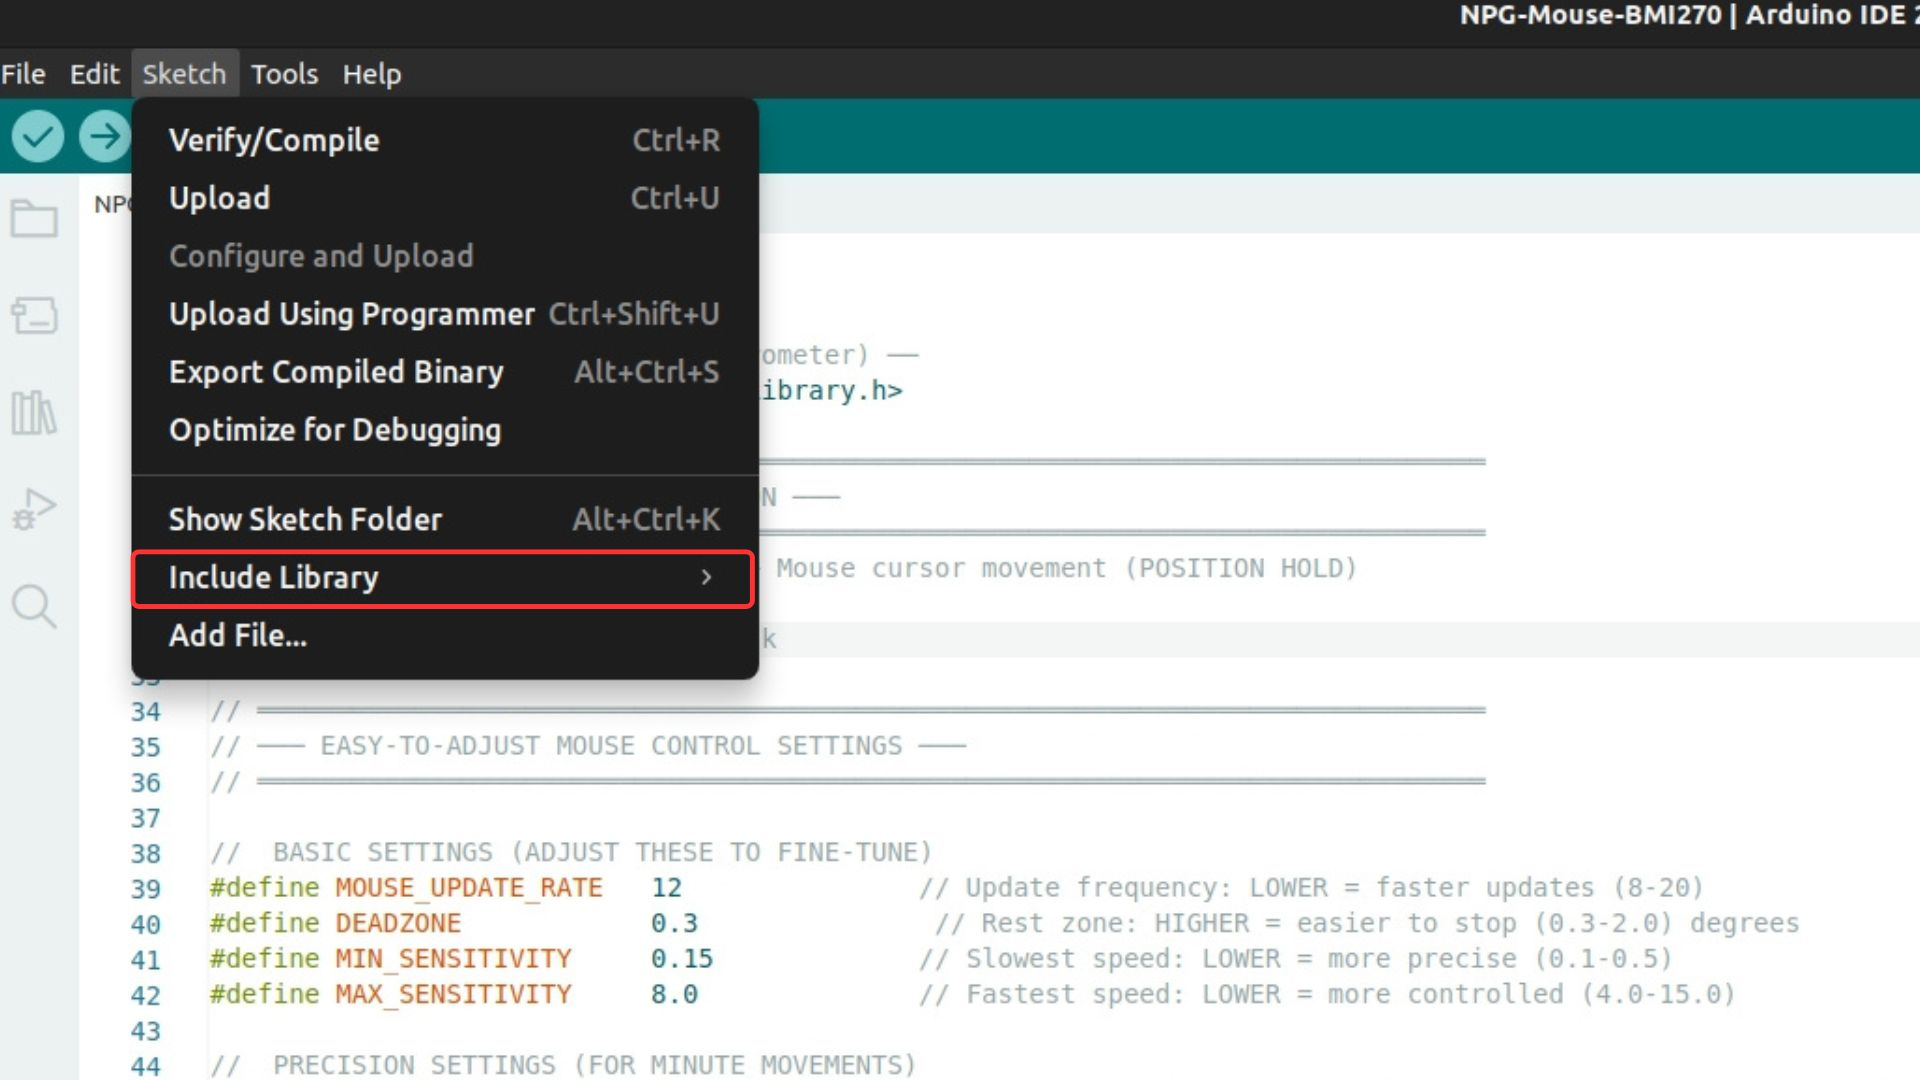
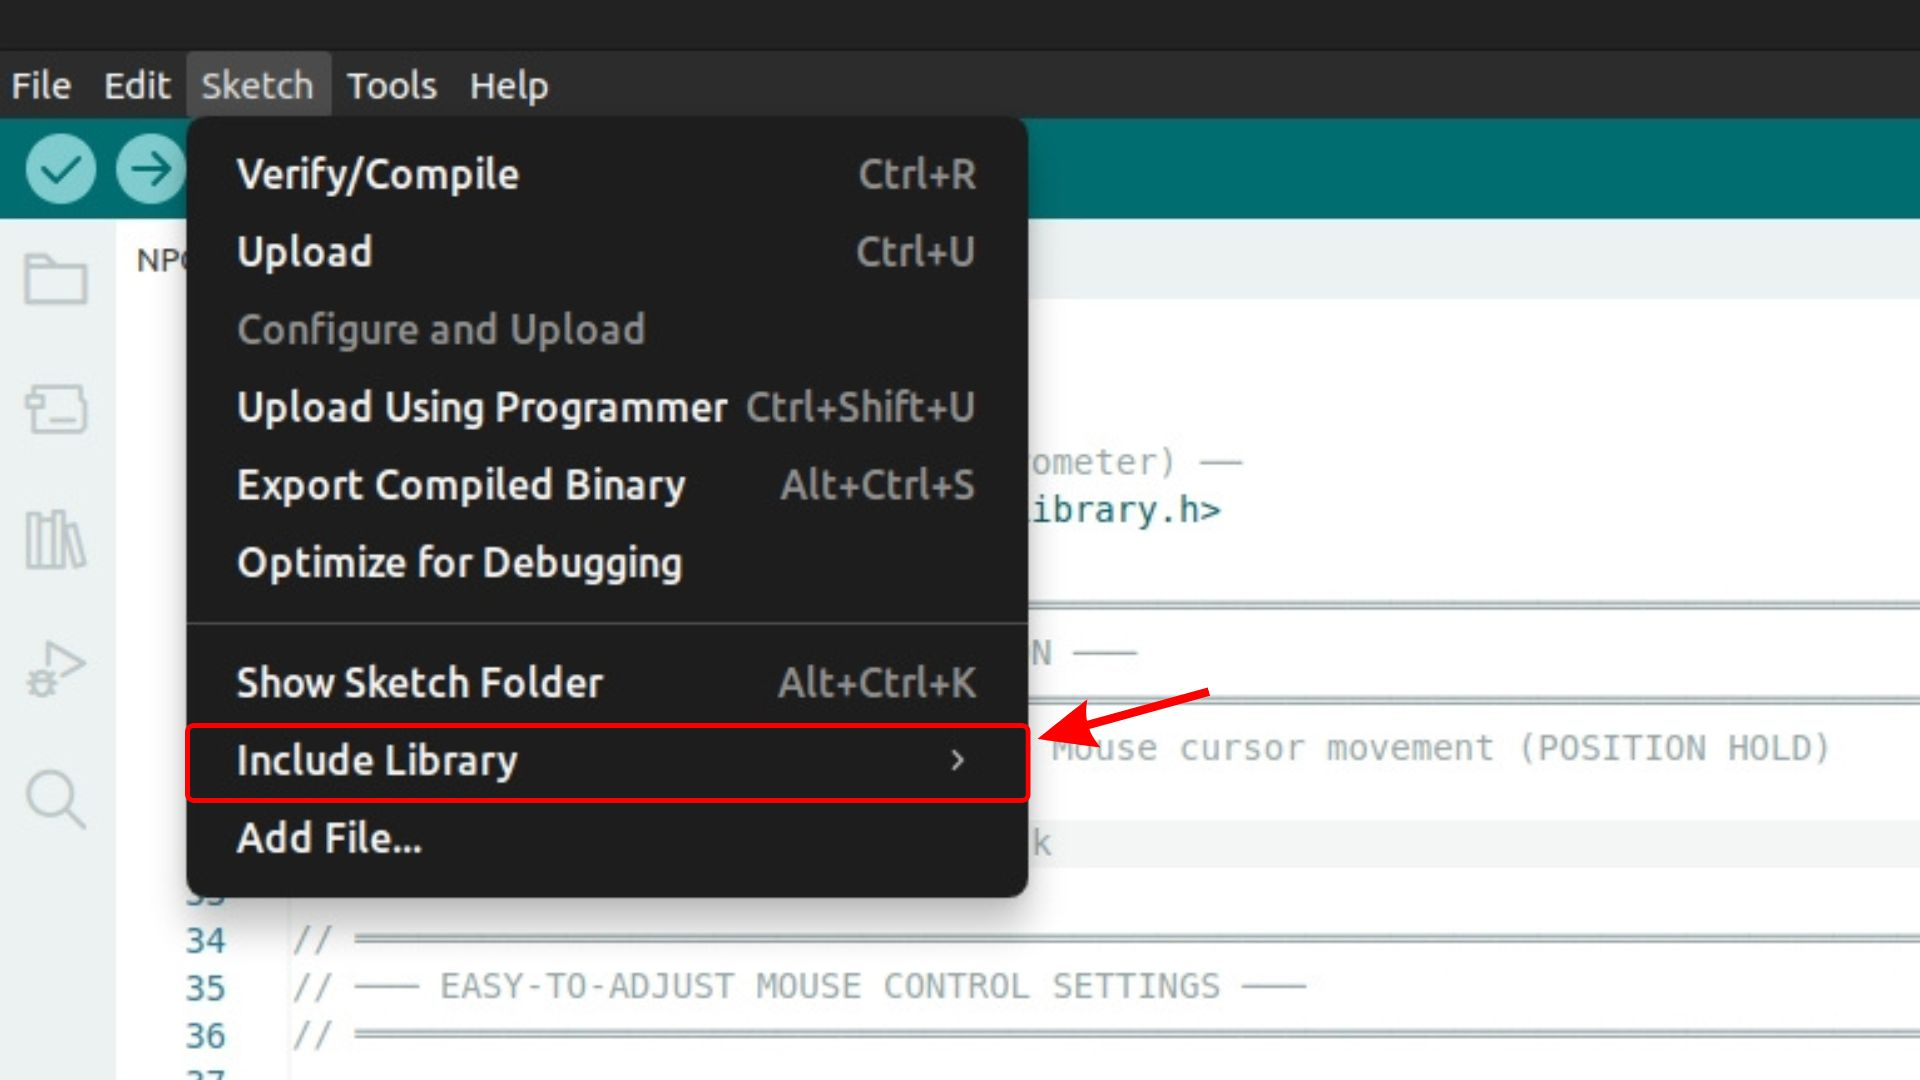
Add comprehensive Arduino library installation guide with updated images
Expanded the guide to cover both the Library Manager and manual ZIP
installation methods, with step-by-step instructions and beginner-friendly
explanations to help users find and install the right library for their
project. Added and updated images throughout to match the new guide structure.

diff --git a/guides/usage-guides/arduino-library-from-github/index.rst b/guides/usage-guides/arduino-library-from-github/index.rst
@@ -1,18 +1,132 @@
 .. _arduino-library-from-github:
 
-Adding an Arduino Library from GitHub
+Installing Arduino Library
 ######################################
 
 Overview
 **********
 
-Some Arduino libraries are not published in the official Arduino Library Manager and are only available on GitHub. This guide walks you through downloading such a library from a GitHub repository and installing it in Arduino IDE using the "Add .ZIP Library" method.
+An Arduino library is a collection of pre-written code that adds extra functionality to your sketches. Instead of writing complex code from scratch, a library gives you ready-to-use functions, for example, to control a sensor, communicate over Bluetooth, or drive a display. You simply include the library at the top of your sketch and call its functions directly.
 
-This method is straightforward and works for any library that is available as a ZIP file on GitHub. It does not require you to clone the repository or use Git commands, making it accessible for beginners.
+Arduino libraries can be installed in two ways. The easiest method is through the built-in Library Manager directly inside Arduino IDE. If the library you need is not listed there, you can download it as a ZIP file from GitHub and install it manually.
+
+This guide covers both methods. Try Part 1 first, and fall back to Part 2 only if the library is unavailable in the Library Manager.
+
+
+Part 1: Installing Using Library Manager
+*******************************************
+
+The Library Manager is the recommended way to install Arduino libraries. It lets you search, install, and update libraries directly from within Arduino IDE.
 
 .. note::
 
-   This guide uses the `ESP32-BLE-Combo <https://github.com/upsidedownlabs/ESP32-BLE-Combo>`_ library as an example. You can follow the same steps for any other GitHub-hosted Arduino library.
+   This part uses the **MPU6050** library as an example. MPU6050 is a commonly used IMU sensor library available in the Arduino Library Manager that lets you read accelerometer and gyroscope data. You can follow the same steps for any other library.
+
+Step 1: Open Arduino IDE
+==========================
+
+Launch Arduino IDE on your computer and wait for it to fully load.
+
+.. figure:: media/step4.jpg
+   :align: center
+   :alt: Arduino IDE main window
+
+   Arduino IDE ready to use
+
+Step 2: Open the Library Manager
+===================================
+
+You can also open the Library Manager directly with the keyboard shortcut **Ctrl + Shift + I** (Windows/Linux) or **Cmd + Shift + I** (macOS). Otherwise, follow the steps below.
+
+**2.1** In the menu bar, click on **Sketch**. A dropdown menu will appear.
+
+.. figure:: media/step5.jpg
+   :align: center
+   :alt: Clicking Sketch in the menu bar
+
+   Click on "Sketch" in the menu bar
+
+**2.2** In the dropdown, move your mouse over **Include Library**. A submenu will slide out to the right.
+
+.. figure:: media/step6.jpg
+   :align: center
+   :alt: Hovering over Include Library
+
+   Hover over "Include Library" to open the submenu
+
+**2.3** From the submenu, click **Manage Libraries...**. The Library Manager panel will open on the left side of the IDE.
+
+.. figure:: media/step2c_1.jpg
+   :align: center
+   :alt: Clicking Manage Libraries
+
+   Click "Manage Libraries..." to open the Library Manager
+
+.. figure:: media/step2d_1.jpg
+   :align: center
+   :alt: Library Manager panel open
+
+   The Library Manager panel open in Arduino IDE
+
+Step 3: Search for the Library
+=================================
+
+In the search bar at the top of the Library Manager, type the name of the library you want to install. For example, type ``MPU6050`` to find libraries for the MPU6050 sensor.
+
+.. figure:: media/step3_1.jpg
+   :align: center
+   :alt: Searching for MPU6050 in the Library Manager
+
+   Type the library name in the search bar
+
+The search will return a variety of results from different authors. Review the options and choose the one that best fits your project. For example, you can use **MPU6050** by Electronic Cats or **Adafruit MPU6050** by Adafruit, depending on your requirements.
+
+.. note::
+
+   If the library does not appear in the search results, it is likely not published in the official Arduino Library Manager. In that case, close the Library Manager and follow :ref:`part-2-zip-install` of this guide to install it manually from GitHub.
+
+Step 4: Install the Library
+==============================
+
+When you find the library you want in the list, click on it to expand its details. Select the version you want from the dropdown (the latest version is selected by default), then click **Install**. For example, click on **MPU6050** by Electronic Cats and click **Install**.
+
+Arduino IDE will download and install the library. A confirmation message will appear once the installation is complete.
+
+.. figure:: media/step4a_1.jpg
+   :align: center
+   :alt: Installing the MPU6050 library from the Library Manager
+
+   Click Install to install the selected library
+   
+.. figure:: media/step4b_1.jpg
+   :align: center
+   :alt: Installation confirmation message
+
+   Click Install to install the selected library. The confirmation message is shown at the bottom right of Arduino IDE after installation.
+
+Step 5: Verify the Installation
+==================================
+
+To confirm the library was installed, click **Sketch** > **Include Library**. Scroll through the list under **Contributed Libraries** and look for the library you just installed. For example, you should see **MPU6050** listed there.
+
+.. figure:: media/step5_1.jpg
+   :align: center
+   :alt: MPU6050 library appearing in the Include Library list
+
+   The MPU6050 library appears under Contributed Libraries
+
+.. _part-2-zip-install:
+
+Part 2: Installing Using a .ZIP File from GitHub
+**************************************************
+
+.. note::
+
+   This guide uses the `ESP32-BLE-Combo <https://github.com/upsidedownlabs/ESP32-BLE-Combo>`_ library as an example. If you search this library in the Library Manager, you will not find it because it is not published there, so you will need to install it using the steps below. You can follow the same steps for any other GitHub-hosted Arduino library. 
+
+Some Arduino libraries are not published in the official Arduino Library Manager and are only available on GitHub. This section walks you through downloading such a library from a GitHub repository and installing it in Arduino IDE using the "Add .ZIP Library" method.
+
+This method works for any library available as a ZIP file on GitHub. It does not require you to clone the repository or use Git commands, making it accessible for beginners.
 
 Step 1: Open the GitHub Repository
 ====================================
@@ -26,7 +140,6 @@ For the ESP32-BLE-Combo library, go to:
    :align: center
    :alt: GitHub repository page
 
-
    The GitHub repository page for the library
 
 Step 2: Download the ZIP
@@ -37,7 +150,6 @@ On the repository page, click the green **Code** button near the top-right of th
 .. figure:: media/step2.jpg
    :align: center
    :alt: Clicking the Code button
-
 
    Click the green "Code" button to open the download dropdown
 
@@ -142,7 +254,7 @@ Troubleshooting
    Close and reopen Arduino IDE, then check the list again. If it is still missing, repeat the Add .ZIP Library step.
 
 **"No valid library found in the ZIP" error**
-   This usually means the ZIP was extracted and re-compressed before installation. Download the ZIP fresh from GitHub without unzipping it first.
+   This usually means the ZIP was extracted and re-compressed before installation. Download the ZIP fresh from GitHub without unzipping it first, then try to include it again. This issue may or may not happen on your system. This is because some operating systems automatically extract ZIP files when you download them, and if you then re-zip the extracted folder, it may not have the correct structure that Arduino IDE expects.
 
 **The ZIP failed to download**
    Try refreshing the GitHub page and clicking Download ZIP again. If the repository is private, make sure you are logged into GitHub and have access.
@@ -150,4 +262,4 @@ Troubleshooting
 .. seealso::
 
    - :ref:`resolve-software-issues` for general Arduino IDE troubleshooting tips.
-   - :ref:`upsidedownlabs_contribute` to understand how you can contribute us.
+   - :ref:`upsidedownlabs_contribute` to understand how you can contribute to us.
